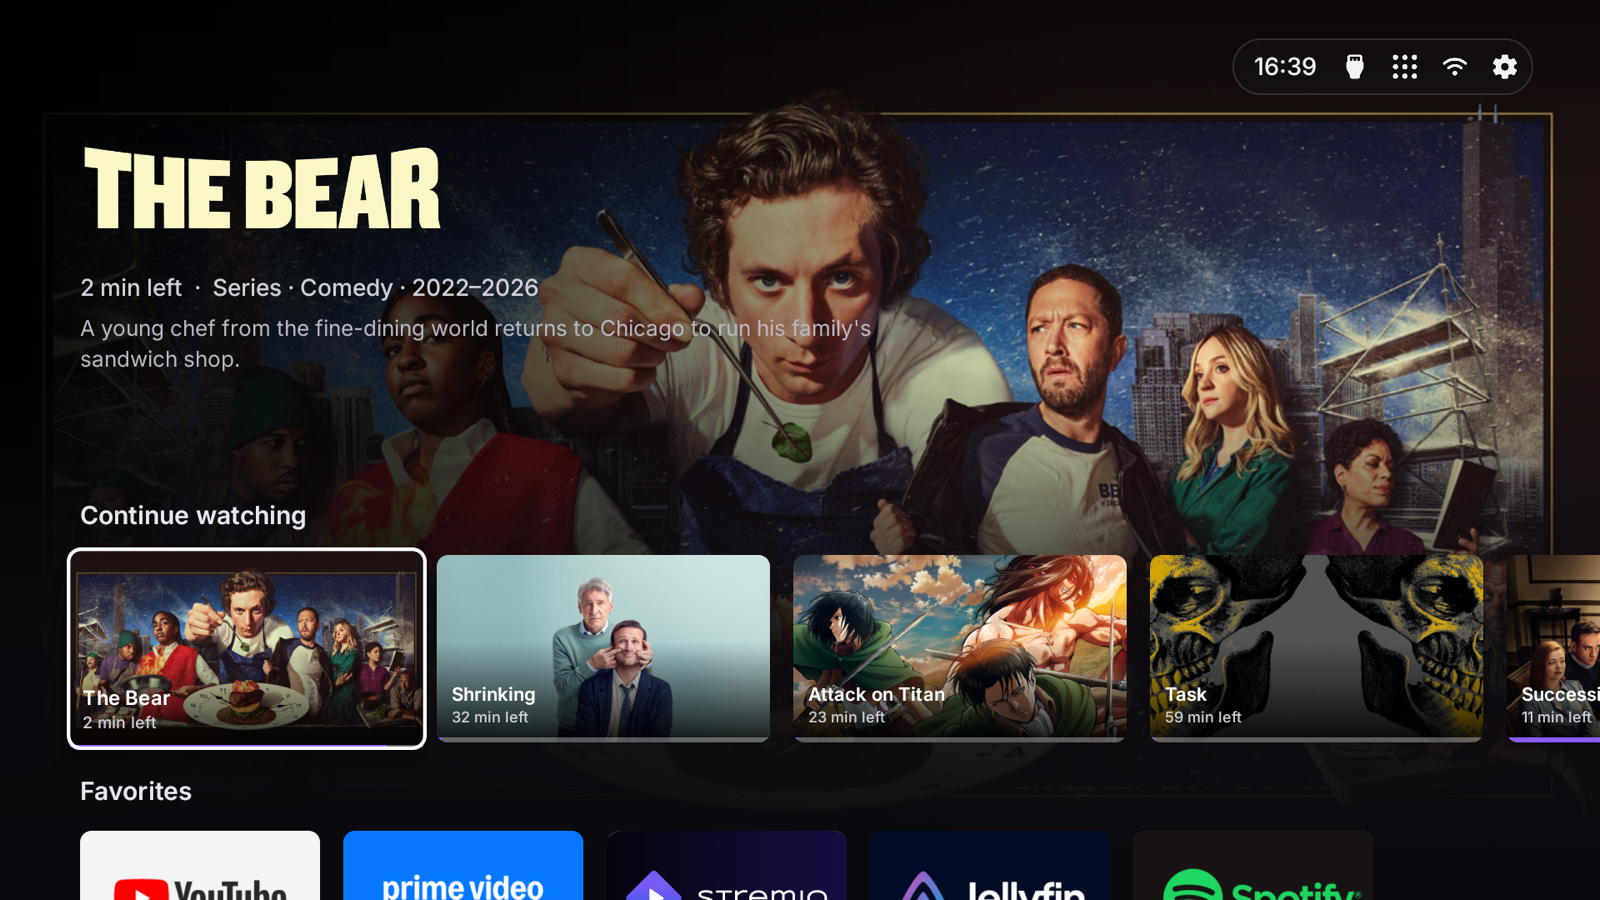
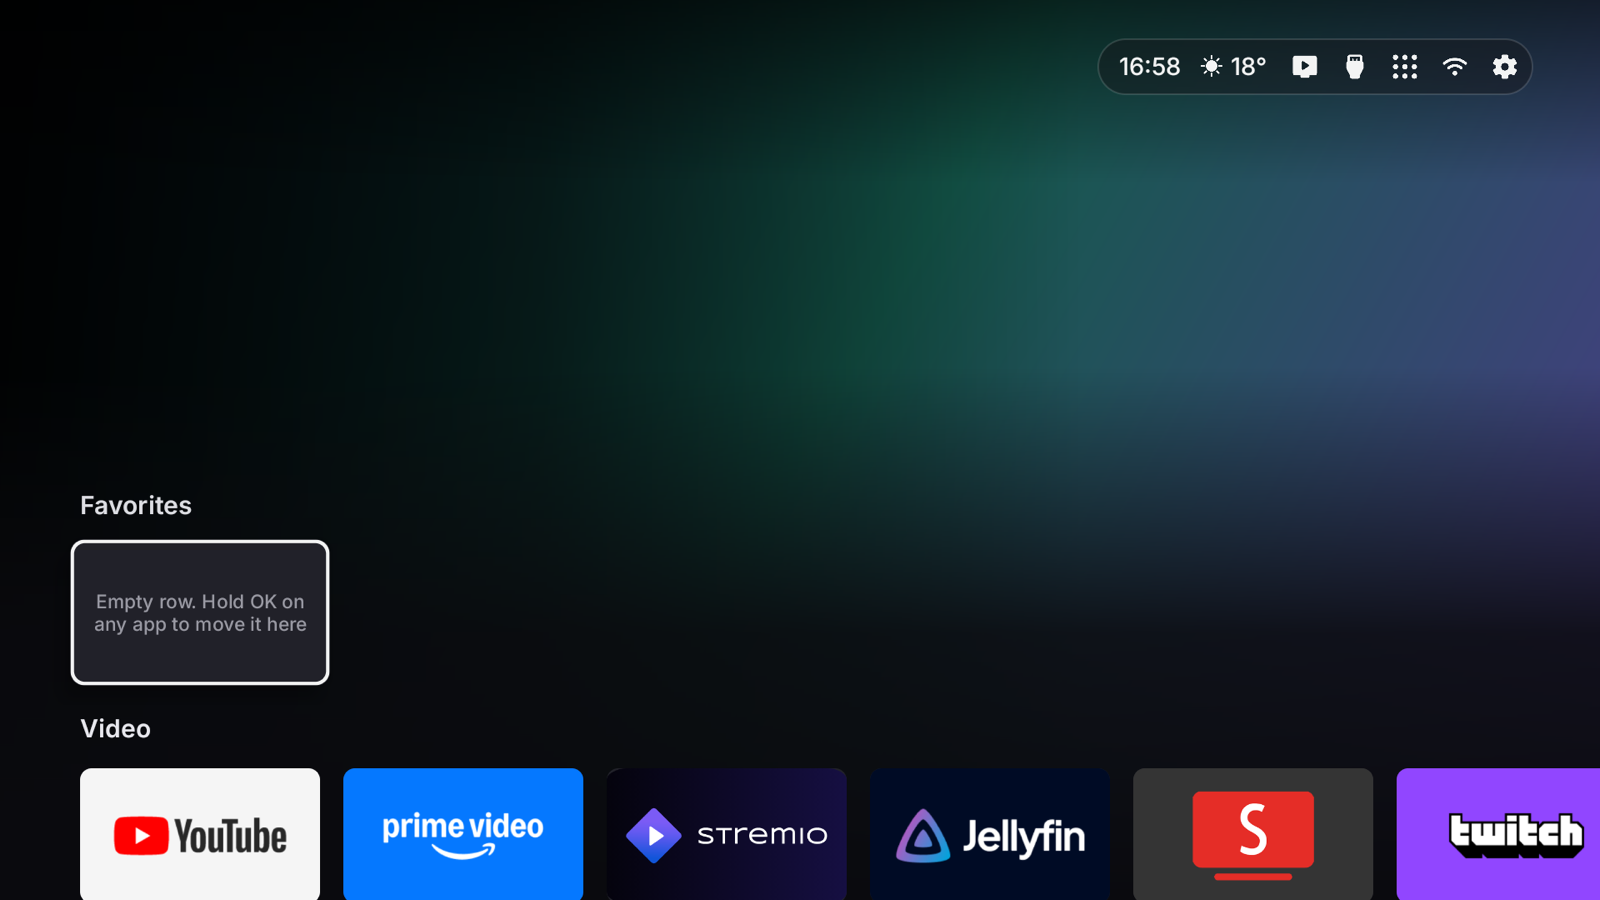
Code cleanup (unused code, warnings, shellcheck), README screenshots, issue template

diff --git a/app/src/tv/debloat/home/HomeView.java b/app/src/tv/debloat/home/HomeView.java
@@ -1,15 +1,12 @@
 package tv.debloat.home;
 
 import android.app.Activity;
-import android.app.AlertDialog;
 import android.content.Intent;
 import android.graphics.Bitmap;
-import android.graphics.BitmapFactory;
 import android.graphics.Canvas;
 import android.graphics.Color;
 import android.graphics.Outline;
 import android.graphics.Paint;
-import android.graphics.RectF;
 import android.graphics.drawable.GradientDrawable;
 import android.net.ConnectivityManager;
 import android.net.NetworkCapabilities;
@@ -22,7 +19,6 @@ import android.view.KeyEvent;
 import android.view.View;
 import android.view.ViewGroup;
 import android.view.ViewOutlineProvider;
-import android.widget.EditText;
 import android.widget.FrameLayout;
 import android.widget.HorizontalScrollView;
 import android.widget.ImageView;
@@ -30,7 +26,6 @@ import android.widget.LinearLayout;
 import android.widget.ScrollView;
 import android.widget.TextView;
 
-import java.io.InputStream;
 import java.text.DateFormat;
 import java.util.ArrayList;
 import java.util.Date;
@@ -431,9 +426,6 @@ final class HomeView extends FrameLayout implements Picks.Listener, Weather.List
         return "aurora";   // e.g. "posters", from before posters became the on-hover layer
     }
 
-    private boolean fixedBackground() {
-        return true;
-    }
 
     private String backgroundName() {
         for (String[] b : BACKGROUNDS) if (b[0].equals(background())) return b[1];
@@ -626,12 +618,7 @@ final class HomeView extends FrameLayout implements Picks.Listener, Weather.List
             if (r.hidden) continue;
             List<Title> titles = titles(r.type);
             if (titles != null) {
-                if (titles.isEmpty()) {
-                    View hint = signInCard(r.type);
-                    if (hint == null) continue;
-                    row(r.title(), i).addView(hint);
-                    continue;
-                }
+                if (titles.isEmpty()) continue;   // a row shows once it has titles
                 LinearLayout cards = row(r.title(), i);
                 for (Title t : titles) cards.addView(titleCard(t, i));
             } else if (r.isApps()) {
@@ -645,13 +632,6 @@ final class HomeView extends FrameLayout implements Picks.Listener, Weather.List
                     cards.addView(appCard(pkg, label(installed, pkg), i));
                 }
                 if (cards.getChildCount() == TOOLS) cards.addView(emptyCard(i));
-            } else if (r.type.equals(HomeLayout.ALL_APPS)) {
-                LinearLayout cards = row(r.title(), i);
-                for (String[] app : installed) {
-                    if (layout.inAppRow(app[0]) || layout.hiddenApps().contains(app[0]) || app[0].equals(activity.getPackageName())) continue;
-                    cards.addView(appCard(app[0], app[1], i));
-                }
-                if (cards.getChildCount() == TOOLS) dropLastRow();
             } else if (r.type.equals(HomeLayout.INPUTS)) {
                 LinearLayout cards = row(r.title(), i);
                 if (Apps.liveTv(activity) != null) {
@@ -670,12 +650,6 @@ final class HomeView extends FrameLayout implements Picks.Listener, Weather.List
             }
         }
         if (autoFocus && (focused == null || keepInRows)) focusFirst();
-    }
-
-    private void dropLastRow() {
-        View last = rowViews.remove(rowViews.size() - 1);
-        rowIndex.remove(rowIndex.size() - 1);
-        rows.removeView(last);
     }
 
     private void focusFirst() {
@@ -718,7 +692,7 @@ final class HomeView extends FrameLayout implements Picks.Listener, Weather.List
         cards.setClipToPadding(false);
         h.addView(cards);
         row.addView(h);
-        // Left of the first card (Projectivy style): ⇅ moves the row with Up/Down, ⚙ opens its settings.
+        // Left of the first card: ⇅ moves the row with Up/Down, ⚙ opens its settings.
         cards.addView(rowTool(arrowsIcon(px(36), Color.WHITE), "move:" + layoutIndex, layoutIndex, true));
         cards.addView(rowTool(symbol("settings"), "gear:" + layoutIndex, layoutIndex, false));
         // Hide ⇅ and ⚙ off the left edge once the row has its size.
@@ -882,26 +856,6 @@ final class HomeView extends FrameLayout implements Picks.Listener, Weather.List
         card.addView(t, match());
         card.setOnClickListener(v -> openSheet(p -> rowSettingsPage(p, layoutIndex)));
         return card;
-    }
-
-    /** For a title row with nothing yet: sign in (Stremio, Trakt), or nothing (still loading). */
-    private View signInCard(String type) {
-        if (type != null) return null;   // signing in is part of setup and Home settings, not a card in the rows
-        boolean stremio = type.equals(HomeLayout.CONTINUE) || type.equals(HomeLayout.LIBRARY);
-        if (stremio ? Stremio.signedIn(activity) : (!Trakt.configured() || recs.traktMode())) return null;
-        int index = layout.rows().indexOf(rowOfType(type));
-        FrameLayout card = card(CARD_W, CARD_H, "signin:" + type, index);
-        TextView t = text(26, Color.WHITE, Fonts.semibold);
-        t.setText(stremio ? "Sign in to Stremio" : "Sign in to Trakt");
-        t.setGravity(Gravity.CENTER);
-        card.addView(t, match());
-        card.setOnClickListener(v -> activity.startActivity(new Intent(activity, stremio ? StremioLoginActivity.class : TraktLoginActivity.class)));
-        return card;
-    }
-
-    private HomeLayout.Row rowOfType(String type) {
-        for (HomeLayout.Row r : layout.rows()) if (r.type.equals(type)) return r;
-        return null;
     }
 
     private View shortcutCard(Apps.Item it, int layoutIndex) {
@@ -1135,16 +1089,6 @@ final class HomeView extends FrameLayout implements Picks.Listener, Weather.List
         backdropNext.animate().alpha(0f).setDuration(300).start();
     }
 
-    private Title homeTitle() {
-        for (View row : rowViews) {
-            LinearLayout cards = cards(row);
-            for (int i = 0; i < cards.getChildCount(); i++) {
-                Object t = cards.getChildAt(i).getTag(TAG_TITLE);
-                if (t instanceof Title) return (Title) t;
-            }
-        }
-        return null;
-    }
 
     /** The rows above the selected one fade away, and the selected one sits under the backdrop's text. */
     private void onRowFocused(View row) {

diff --git a/app/src/tv/debloat/home/HomeLayout.java b/app/src/tv/debloat/home/HomeLayout.java
@@ -18,7 +18,7 @@ import java.util.Set;
  */
 final class HomeLayout {
     static final String CONTINUE = "continue", LIBRARY = "library", UP_NEXT = "upnext", FOR_YOU = "foryou",
-            TRENDING = "trending", APPS = "apps", ALL_APPS = "allapps", INPUTS = "inputs", POPULAR = "popular", NEW = "new";
+            TRENDING = "trending", APPS = "apps", INPUTS = "inputs", POPULAR = "popular", NEW = "new";
 
     static final class Row {
         String type, name = "";
@@ -37,7 +37,6 @@ final class HomeLayout {
                 case UP_NEXT: return "Up next on Trakt";
                 case FOR_YOU: return "For you";
                 case TRENDING: return "Trending";
-                case ALL_APPS: return "All apps";
                 case INPUTS: return "Inputs & settings";
                 default: return name;
             }
@@ -97,31 +96,6 @@ final class HomeLayout {
             rows.clear();
         }
         if (rows.isEmpty()) defaults();
-        // All apps is a grid now (top right, and the tile at the end of Favorites), no longer a row.
-        boolean dropped = false;
-        for (int i = rows.size() - 1; i >= 0; i--) {
-            if (ALL_APPS.equals(rows.get(i).type)) {
-                rows.remove(i);
-                dropped = true;
-            }
-        }
-        if (dropped) save();
-        // Early builds put the All Apps tile at the end of the last app row: it belongs first in Apps (once).
-        if (!prefs.getBoolean("allAppsFirst", false)) {
-            prefs.edit().putBoolean("allAppsFirst", true).apply();
-            for (Row r : rows) {
-                if (r.isApps() && "Apps".equals(r.name) && r.apps.remove(ALL_APPS_TILE)) {
-                    r.apps.add(0, ALL_APPS_TILE);
-                    save();
-                }
-            }
-        }
-    }
-
-    /** The last app row (Tools unless renamed or moved), or -1. */
-    int lastAppRow() {
-        for (int i = rows.size() - 1; i >= 0; i--) if (rows.get(i).isApps()) return i;
-        return -1;
     }
 
     /** The All Apps tile's entry in an app row (moved and removed like an app). */
@@ -317,11 +291,5 @@ final class HomeLayout {
     void showApp(String pkg) {
         hiddenApps.remove(pkg);
         save();
-    }
-
-    /** Whether one of the app rows has the app (then All apps leaves it out). */
-    boolean inAppRow(String pkg) {
-        for (Row r : rows) if (r.isApps() && r.apps.contains(pkg)) return true;
-        return false;
     }
 }

diff --git a/tools/icons.py b/tools/icons.py
@@ -22,8 +22,8 @@ ICONS = {
     "sunny": ("sunny", True), "clear_night": ("clear_night", True), "partly_cloudy_day": ("partly_cloudy_day", True),
     "partly_cloudy_night": ("partly_cloudy_night", True), "cloud": ("cloud", True), "foggy": ("foggy", True),
     "rainy": ("rainy", True), "snow": ("ac_unit", False), "thunderstorm": ("thunderstorm", True),
-    "remote": ("settings_remote", True), "account": ("account_circle", True), "palette": ("palette", True),
-    "rows": ("view_agenda", True), "visibility_off": ("visibility_off", True), "location": ("location_on", True),
+    "remote": ("settings_remote", True),
+    "rows": ("view_agenda", True), "location": ("location_on", True),
     "key": ("key", True),
 }
 

diff --git a/app/src/tv/debloat/home/HomeActivity.java b/app/src/tv/debloat/home/HomeActivity.java
@@ -45,9 +45,8 @@ public final class HomeActivity extends Activity {
 
     @Override public boolean dispatchKeyEvent(KeyEvent event) {
         if (home.onKey(event)) return true;
+        // Back on the home screen itself does nothing: there's nothing behind it.
+        if (event.getKeyCode() == KeyEvent.KEYCODE_BACK) return true;
         return super.dispatchKeyEvent(event);
     }
-
-    /** Back on the home screen does nothing (there's nothing behind it). */
-    @Override public void onBackPressed() {}
 }

diff --git a/app/src/tv/debloat/home/AppsGrid.java b/app/src/tv/debloat/home/AppsGrid.java
@@ -4,7 +4,6 @@ import android.app.Activity;
 import android.graphics.Bitmap;
 import android.graphics.Color;
 import android.graphics.Outline;
-import android.graphics.Typeface;
 import android.graphics.drawable.GradientDrawable;
 import android.os.Handler;
 import android.os.Looper;

diff --git a/app/src/tv/debloat/home/Trakt.java b/app/src/tv/debloat/home/Trakt.java
@@ -200,6 +200,7 @@ final class Trakt {
     // MARK: - HTTP
 
     static final class HttpError extends IOException {
+        private static final long serialVersionUID = 1L;
         final int code;
         HttpError(int code) {
             super("Trakt returned HTTP " + code);

diff --git a/app/src/tv/debloat/home/Thumbs.java b/app/src/tv/debloat/home/Thumbs.java
@@ -2,7 +2,6 @@ package tv.debloat.home;
 
 import android.content.Context;
 import android.graphics.Bitmap;
-import android.graphics.BitmapFactory;
 import android.os.Handler;
 import android.os.Looper;
 import android.util.LruCache;

diff --git a/README.md b/README.md
@@ -3,7 +3,9 @@
 **A calm, ad-free home screen for Android TV and Google TV.** Your apps in rows you arrange, what you're watching,
 and nothing you didn't ask for.
 
-![Debloat TV](docs/home.png)
+| | |
+|---|---|
+| ![Home screen](docs/home.png) | ![Settings](docs/settings.png) |
 
 - **No ads, no sponsored rows.** Just your apps, your inputs and your titles.
 - **What you watch, first.** Stremio's *Continue watching* and *Library*, Trakt's *For you*, *Trending* and *Up next*,
@@ -64,6 +66,13 @@ own home screen.
   app ([trakt.tv/oauth/applications](https://trakt.tv/oauth/applications), redirect URI `http://localhost`).
 - **Popular / New on your apps** need a free [TMDB](https://www.themoviedb.org/settings/api) key.
 - **Tested on** a TCL Google TV (Android 14). It should work on other Android TV / Google TV sets; tell us how it goes.
+
+## Changing it
+
+It's plain Java with no libraries. `./build.sh` builds `DebloatTV.apk` (JDK 17 + Android SDK: `platforms;android-34`,
+`build-tools;34.0.0`); `adb install -r DebloatTV.apk` updates the TV. Icons are regenerated with
+`tools/icons.py` (Material Symbols Rounded font) and the app icon/banner with `tools/artwork.py`. Logs:
+`adb logcat -s DebloatTV`. Issues and pull requests welcome.
 
 ## How it works
 

diff --git a/.github/ISSUE_TEMPLATE/bug.md b/.github/ISSUE_TEMPLATE/bug.md
@@ -1,0 +1,10 @@
+---
+name: Something doesn't work
+about: Report a problem on your TV
+---
+
+**TV:** brand and model (Settings → System → About)
+**Android TV / Google TV version:**
+**What happened:**
+**What you expected:**
+**Logs (optional):** `adb logcat -d -s DebloatTV`
